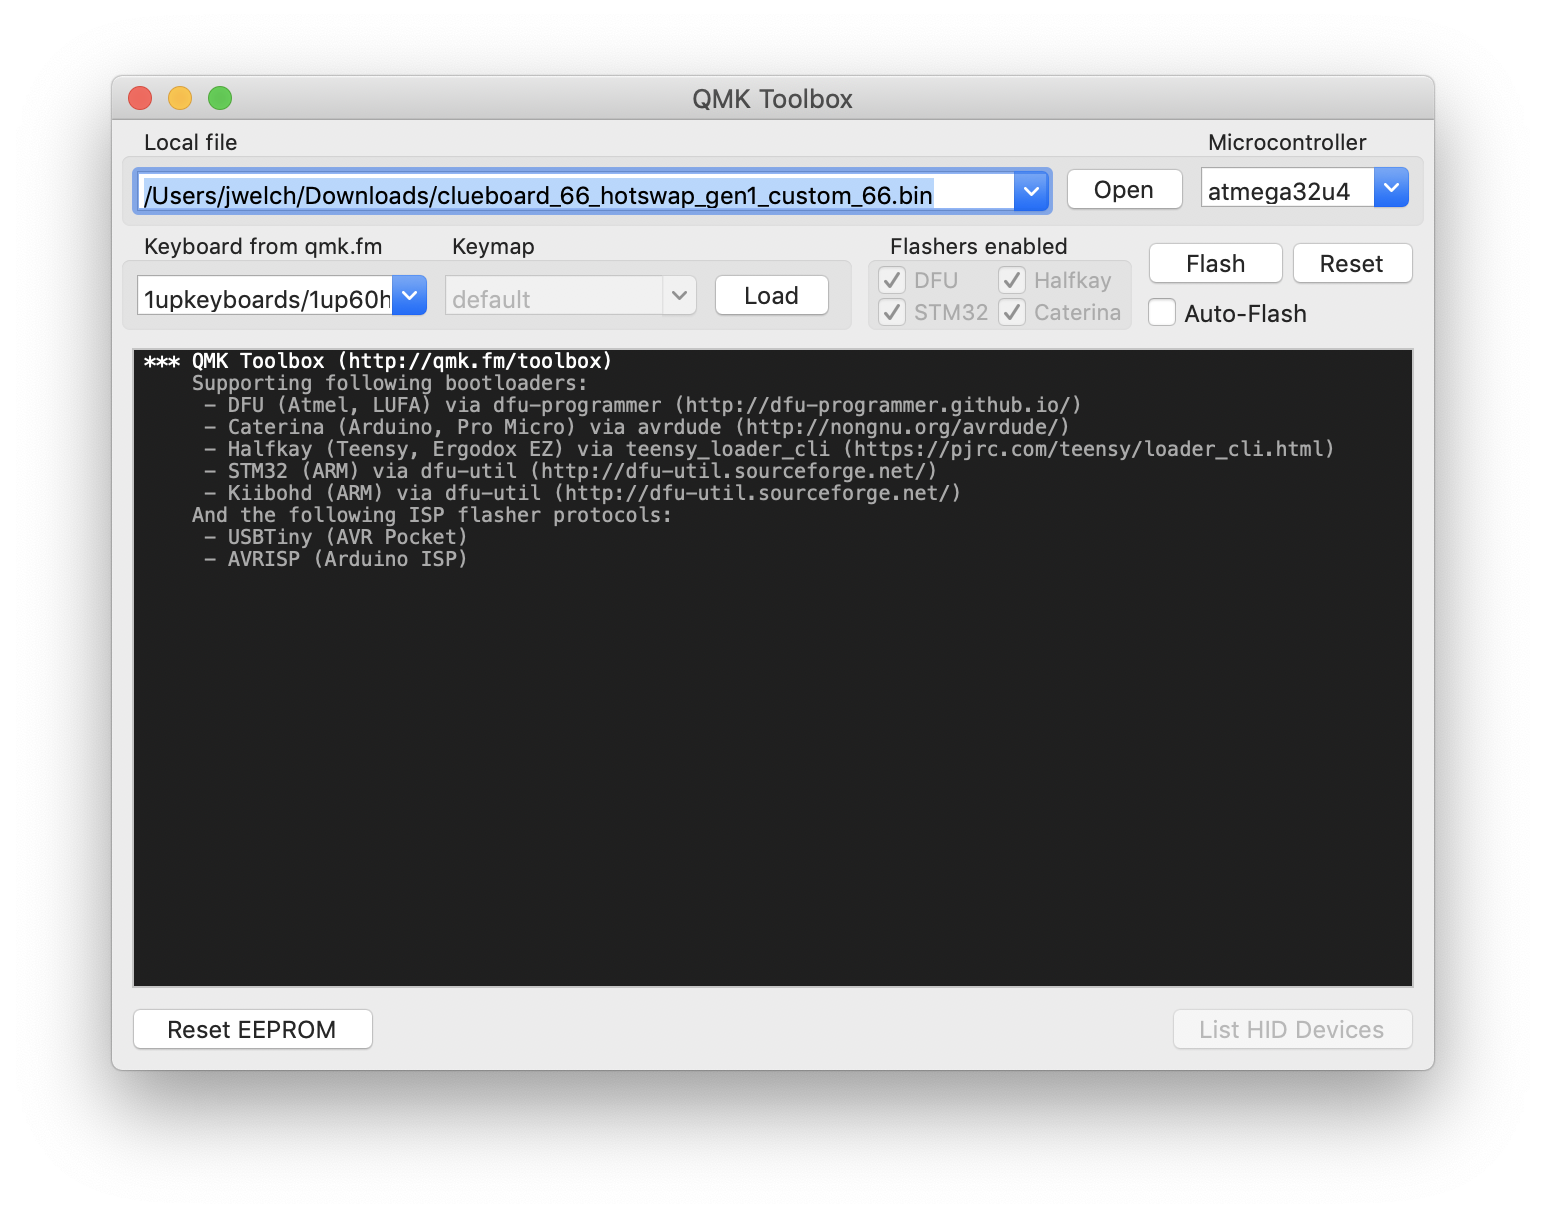
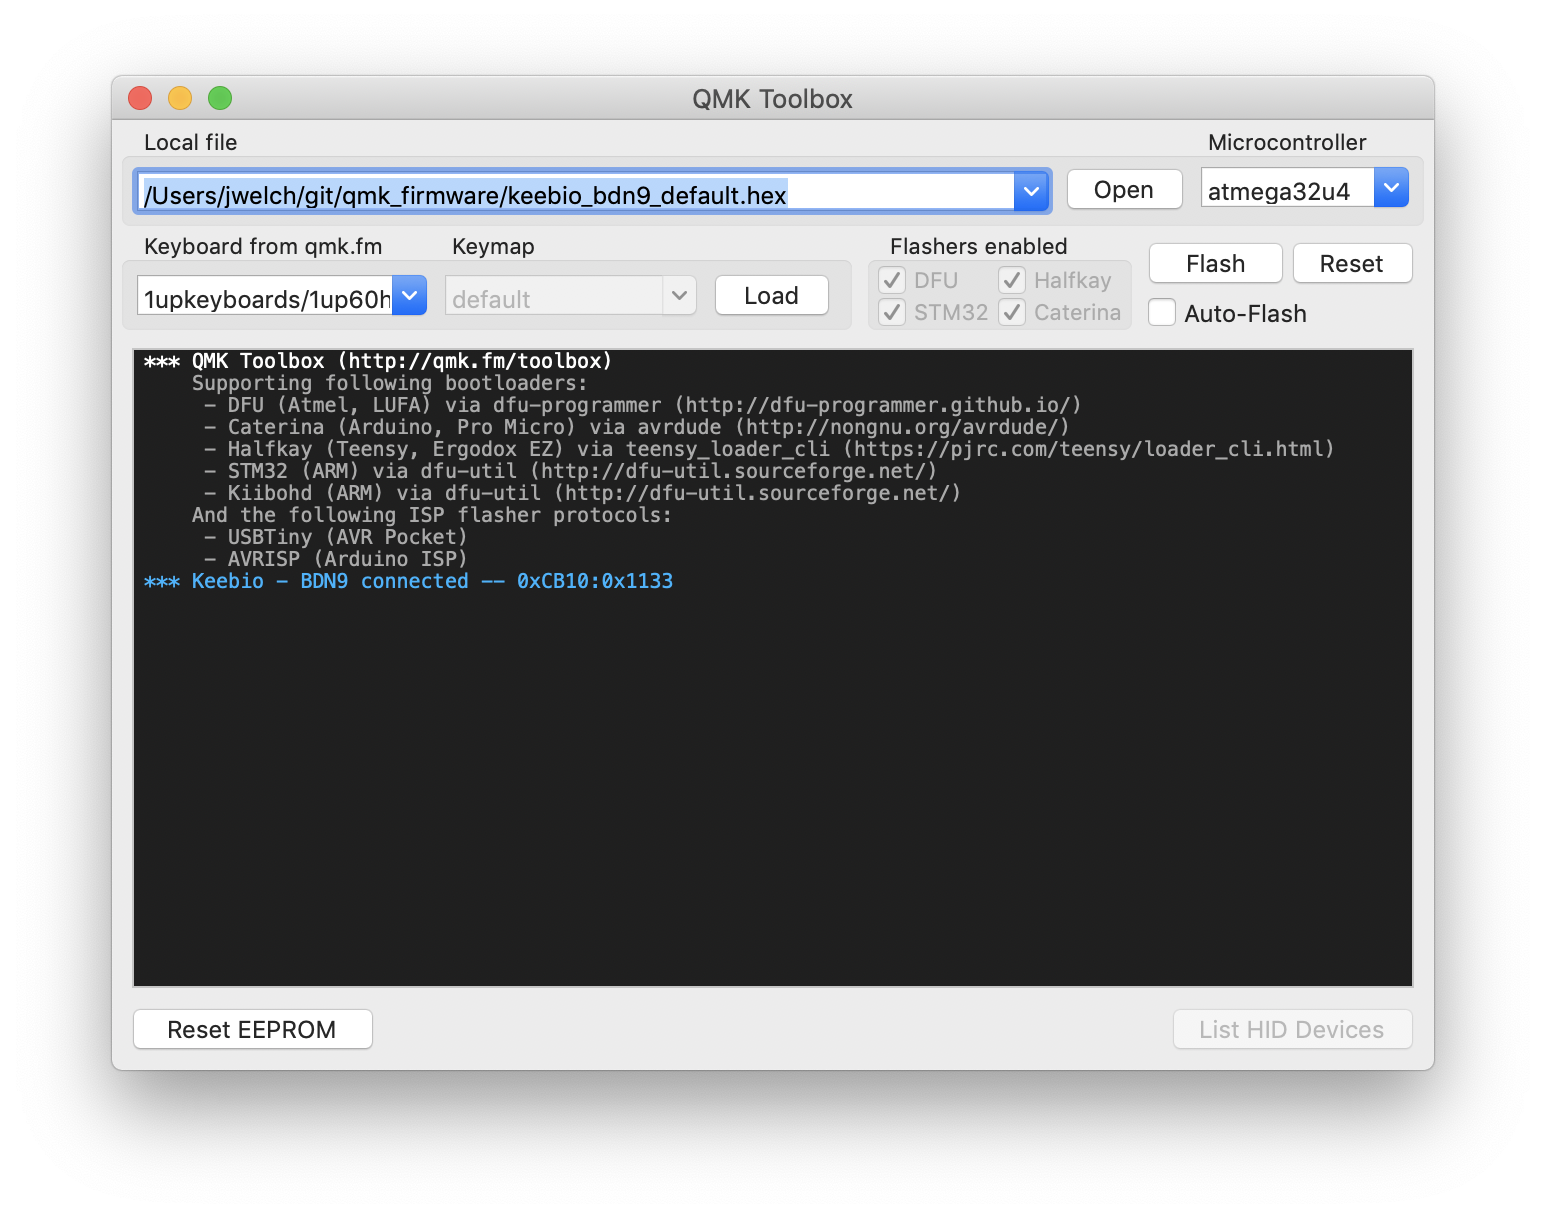
Fixing up docs + add screenshots

Changed region(s): [[0.1863, 0.1248, 0.621, 0.1872], [0.0931, 0.468, 0.4347, 0.4992]]

diff --git a/QMK_SETUP.md b/QMK_SETUP.md
@@ -1,62 +1,114 @@
-# QMK Setup Guide
+# QMK Guide
 
-## What is QMK?
+### What is QMK?
 
-QMK is an open source keyboard firmware that supports a ton of different keyboards and micro controllers. 
+QMK is an open source keyboard firmware that supports a ton of different keyboards and micro controllers.
 
-## What are we building?
+### What are we building?
 
 https://keeb.io/products/bdn9-3x3-9-key-macropad-rotary-encoder-support?variant=15959960944734
 
+### How to get/find help
+
 ## Getting setup
 
-Regardless of the method of setup for compiling the firmware, the QMK Toolbox the easiest way to flash firmware. 
+Regardless of the method of setup for compiling the firmware, the QMK Toolbox the easiest way to flash firmware.
 
-1. Download [QMK.Toolbox.app.zip](https://github.com/musl/nr-offsite-mech-keys/blob/master/QMK.Toolbox.app.zip) (or grab it locally if you have the repository checked out) and unzip it. Run the application and you should see this window. You're ready to flash a prebuilt firmware!
+1. Make sure you have brew installed, get it [here](https://brew.sh/)
 
-![Screen Shot 2019-04-28 at 3.58.51 PM](assets/qmk_toolbox.png)
+2. Brew install ALL THE THINGS!
+
+   ```bash
+   brew tap osx-cross/avr
+   brew install avrdude
+   brew cask install docker  # You may already have docker for mac, so skip this if you do
+   brew cask install qmk-toolbox
+   ```
+3. Make sure they work
+
+    a. Open the Docker for Mac application to run the docker daemon
+
+    b. Open the QMK Toolbox application to make sure its working, you'll use this later to flash the firmware onto the keyboard.
 
 
+## Compiling the default firmware
 
-## Compiling easy way
+1. Make sure you have the qmk_firmware git repository checked out
+    ```bash
+    git clone https://github.com/qmk/qmk_firmware.git
+    cd qmk_firmware
+    ```
+2. Run the utility script to compile the `default` layout for the BDN9 in the Keep.io directory
 
-1. Open a terminal
-2. Clone qmk_firmware reopsitory 
+> The target keyboard has the form <path-to-keyboard>:<layout folder>.
 
 ```bash
-git clone https://github.com/qmk/qmk_firmware.git
-cd qmk_firmware
+./util/docker_build.sh keebio/bdn9:default
+# this will output the hex into the root qmk_firmware directory
+ls | grep hex
+# keebio_bdn9_default.hex
 ```
 
-2. Make sure you have Docker for Mac installed https://docs.docker.com/docker-for-mac/install/
+![building-firmware](assets/build_output.png)
 
-   ``` bash
-   $ docker --version
-   Docker version 18.09.2, build 6247962
-   ```
+## Flashing the default firmware
 
+Full docs: https://docs.qmk.fm/#/newbs_flashing
 
-3. cd into the qmk_firmware subdirectory
+1. Open QMK Toolbox
 
-   ```bash
-   $ cd qmk_firmware
-   ```
+2. Make sure the macropad is connected, you should see it show up in the Toolbox
 
-4. Run the utility script to compile the firmware with docker
+![qmk-toolbox](assets/qmk_toolbox.png)
 
-   For our macropod, run this command
-   
-   ```bash
-$ ./util/docker_build.sh keebio/bdn9:default
-   # this will output the hex into the root qmk_firmware directory
-$ ls | grep hex
-   keebio_bdn9_default.hex
-   ```
-   
-   5. Follow the flashing guide (TBD) to flash the resulting firmware binary onto the macropod.
+3. Select the `keebio_bdn9_default.hex` that was built in the previous section
 
-## Compiling harder way
+4. Press the reset button on the macropad
 
-1. Go follow the guide for the full qmk setup here: https://docs.qmk.fm/#/newbs_getting_started
+![reset-button](assets/press_reset.png)
 
-   
+NOTE: If you this this in the output, then press the reset button again or turn off bluetooth and press it again
+```
+*** Caterina device connected
+    Found port: /dev/cu.Bluetooth-Incoming-Port
+```
+
+5. Click the 'Flash' button
+6. You should see output like this
+
+![flashed!](assets/successful_flash.png)
+
+## Customizing the layout
+
+These are the default layers
+
+![layer1](assets/layer1.png)
+
+![layer2](assets/layer2.png)
+
+1. Make sure you have the qmk_firmware git repository checked out
+2. Run the helper script to bootstrap a new layout
+
+```bash
+./util/new_keymap.sh keebio/bdn9 jwelch92
+```
+
+```bash
+jwelch92 keymap directory created in: qmk_firmware/keyboards/keebio/bdn9/keymaps/
+
+Compile a firmware file with your new keymap by typing:
+   make keebio/bdn9:jwelch92
+from the qmk_firmware directory
+```
+
+3. Open the resulting `keymap.c` file in your favorite code/text editor
+4. You should see this keymap layout
+
+![keymap](assets/keymap.png)
+
+5. Check out the QMK docs or our examples in this repo to start customizing!
+
+QMK Docs: https://docs.qmk.fm/#/newbs_building_firmware?id=customize-the-layout-to-your-liking
+Simple browser layout: https://github.com/qmk/qmk_firmware/blob/master/keyboards/keebio/bdn9/keymaps/vosechu-browser/keymap.c
+Complicated KSP layout: https://github.com/qmk/qmk_firmware/blob/master/keyboards/keebio/bdn9/keymaps/vosechu-ksp/keymap.c
+

diff --git a/BND9_CUSTOMIZE_GUIDE.md b/BND9_CUSTOMIZE_GUIDE.md
@@ -1,0 +1,38 @@
+# BDN9 Customization Guide
+
+## Customizing the layout
+
+Full docs here: https://docs.qmk.fm/#/newbs_building_firmware
+
+### Setup
+
+### General steps
+
+### How to get/find help
+
+## Compiling the firmware
+
+Full docs here: https://docs.qmk.fm/#/newbs_building_firmware or https://docs.qmk.fm/#/getting_started_build_tools
+
+### Setup
+
+### Easy way
+
+https://docs.qmk.fm/#/getting_started_build_tools?id=docker
+
+### Harder way
+
+## Flashing the firmware
+
+### Setup
+
+### Easy way
+
+QMK Toolbox
+
+### Harder way
+
+Full docs: https://docs.qmk.fm/#/newbs_flashing
+
+
+
